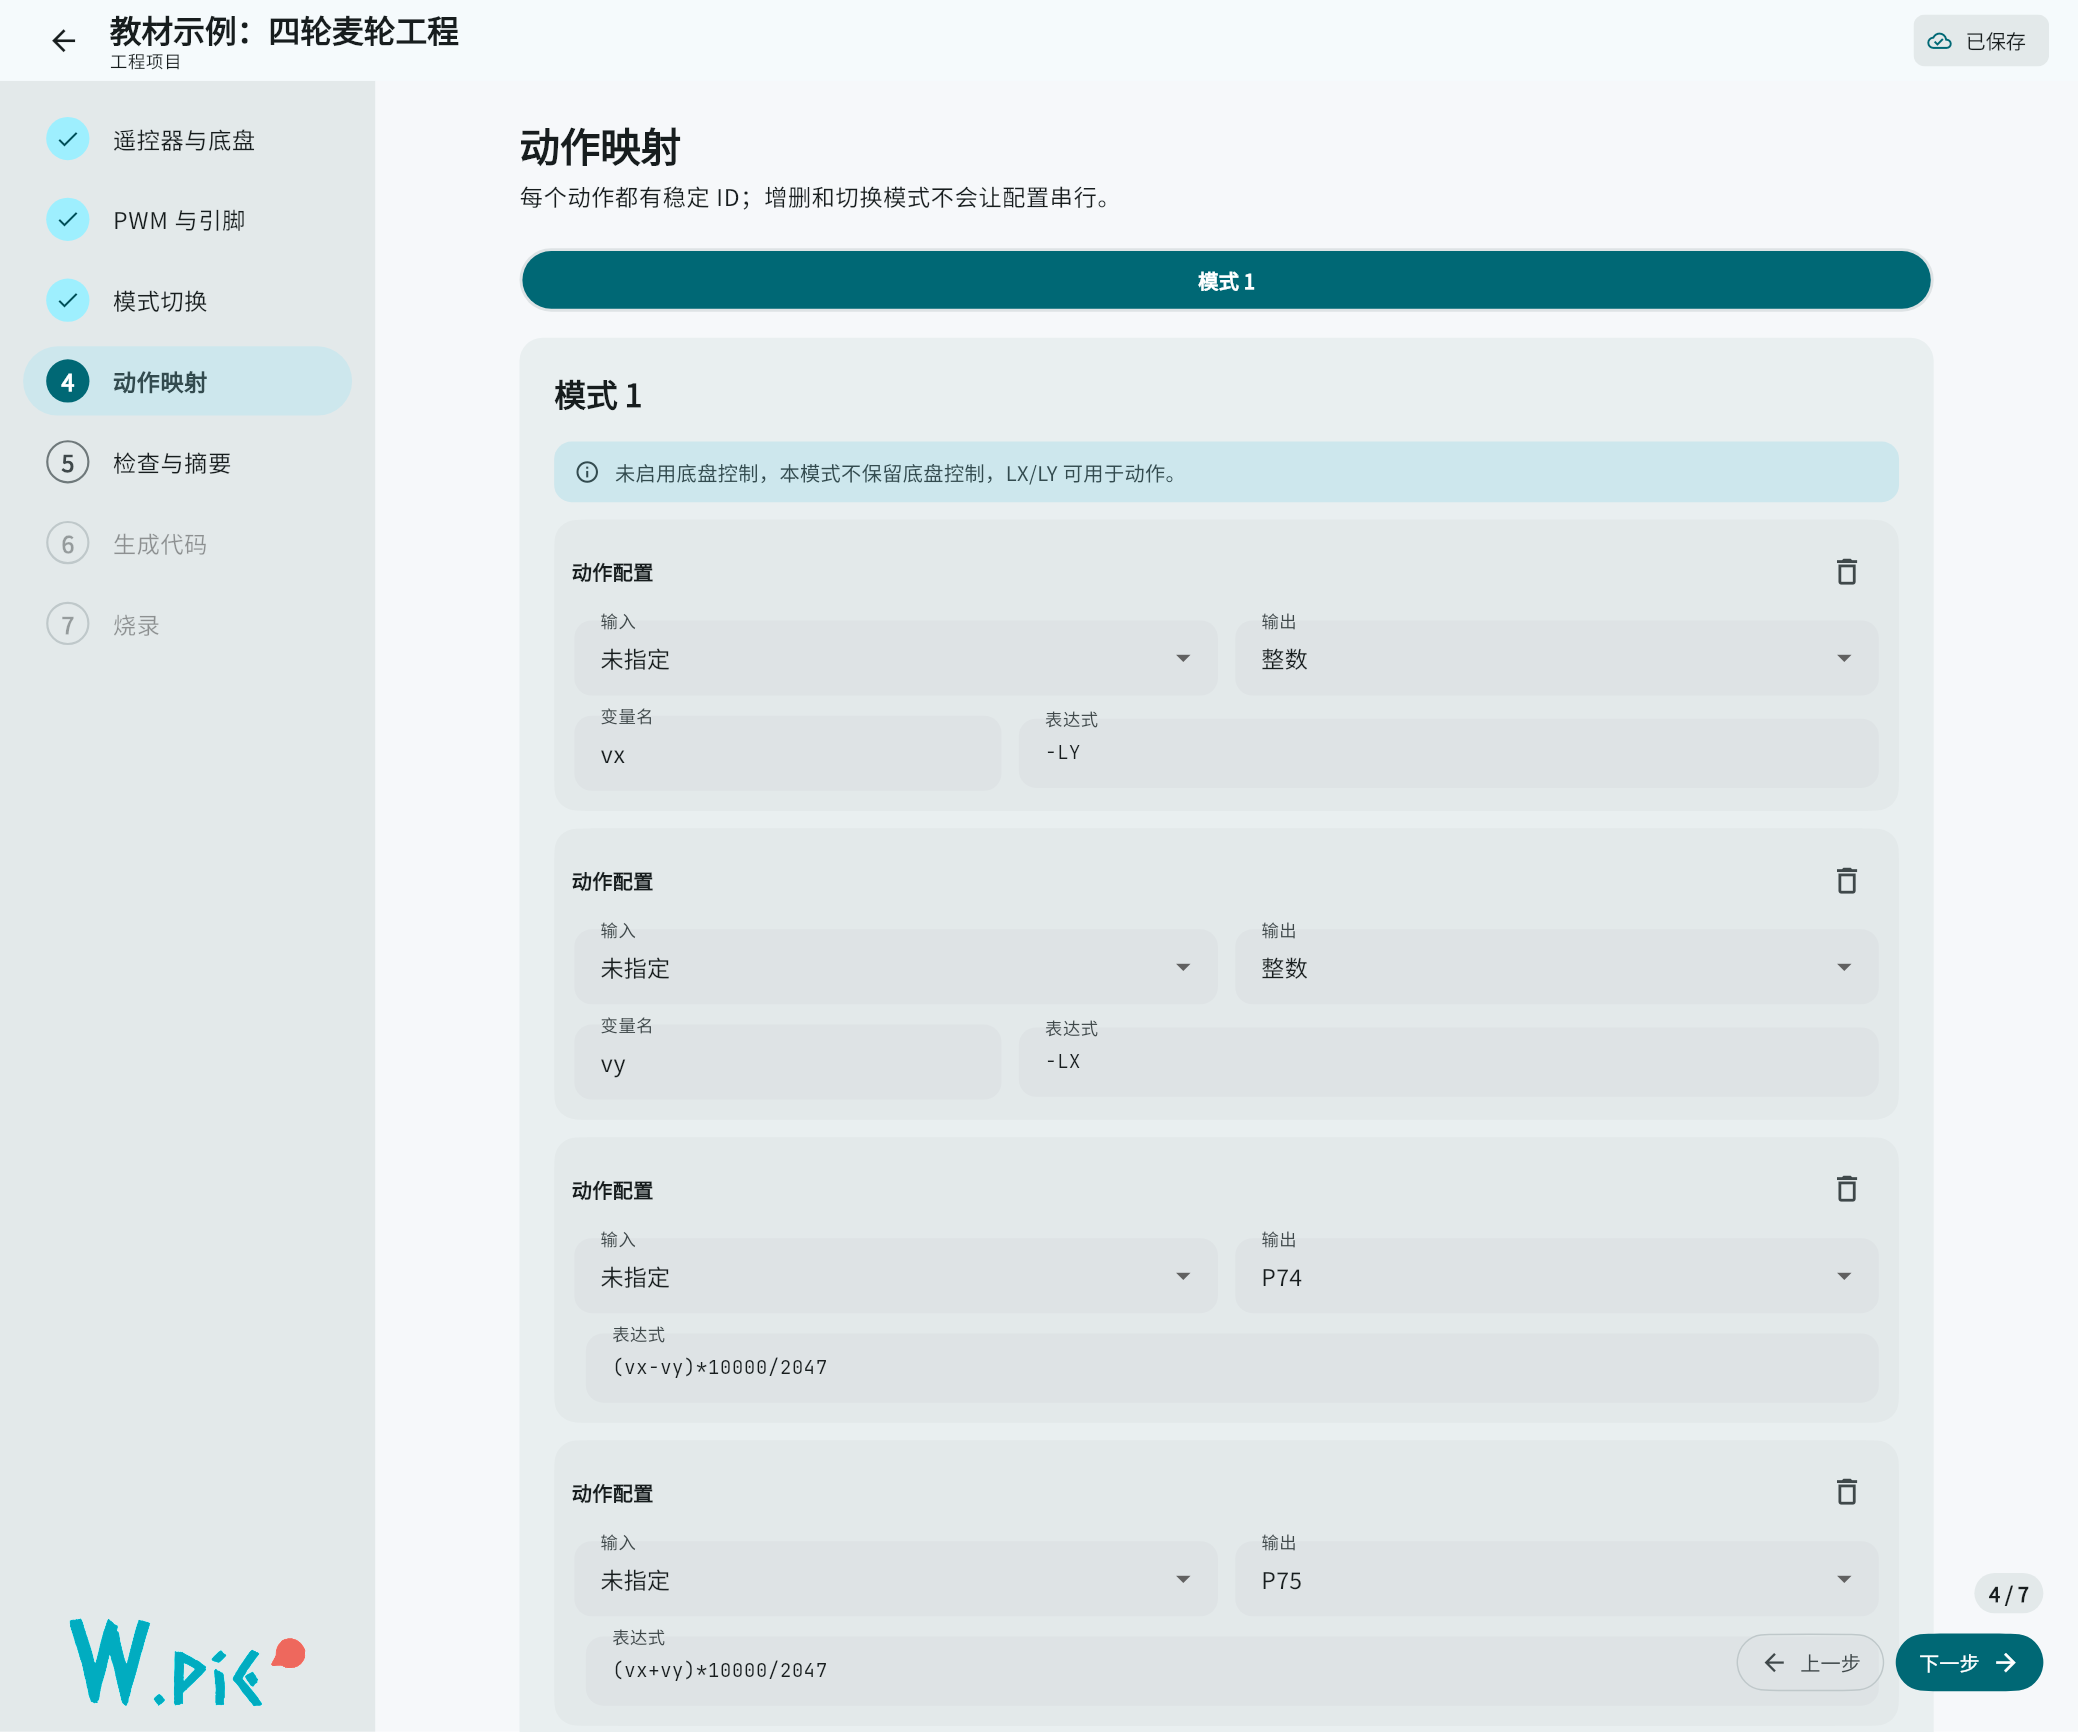
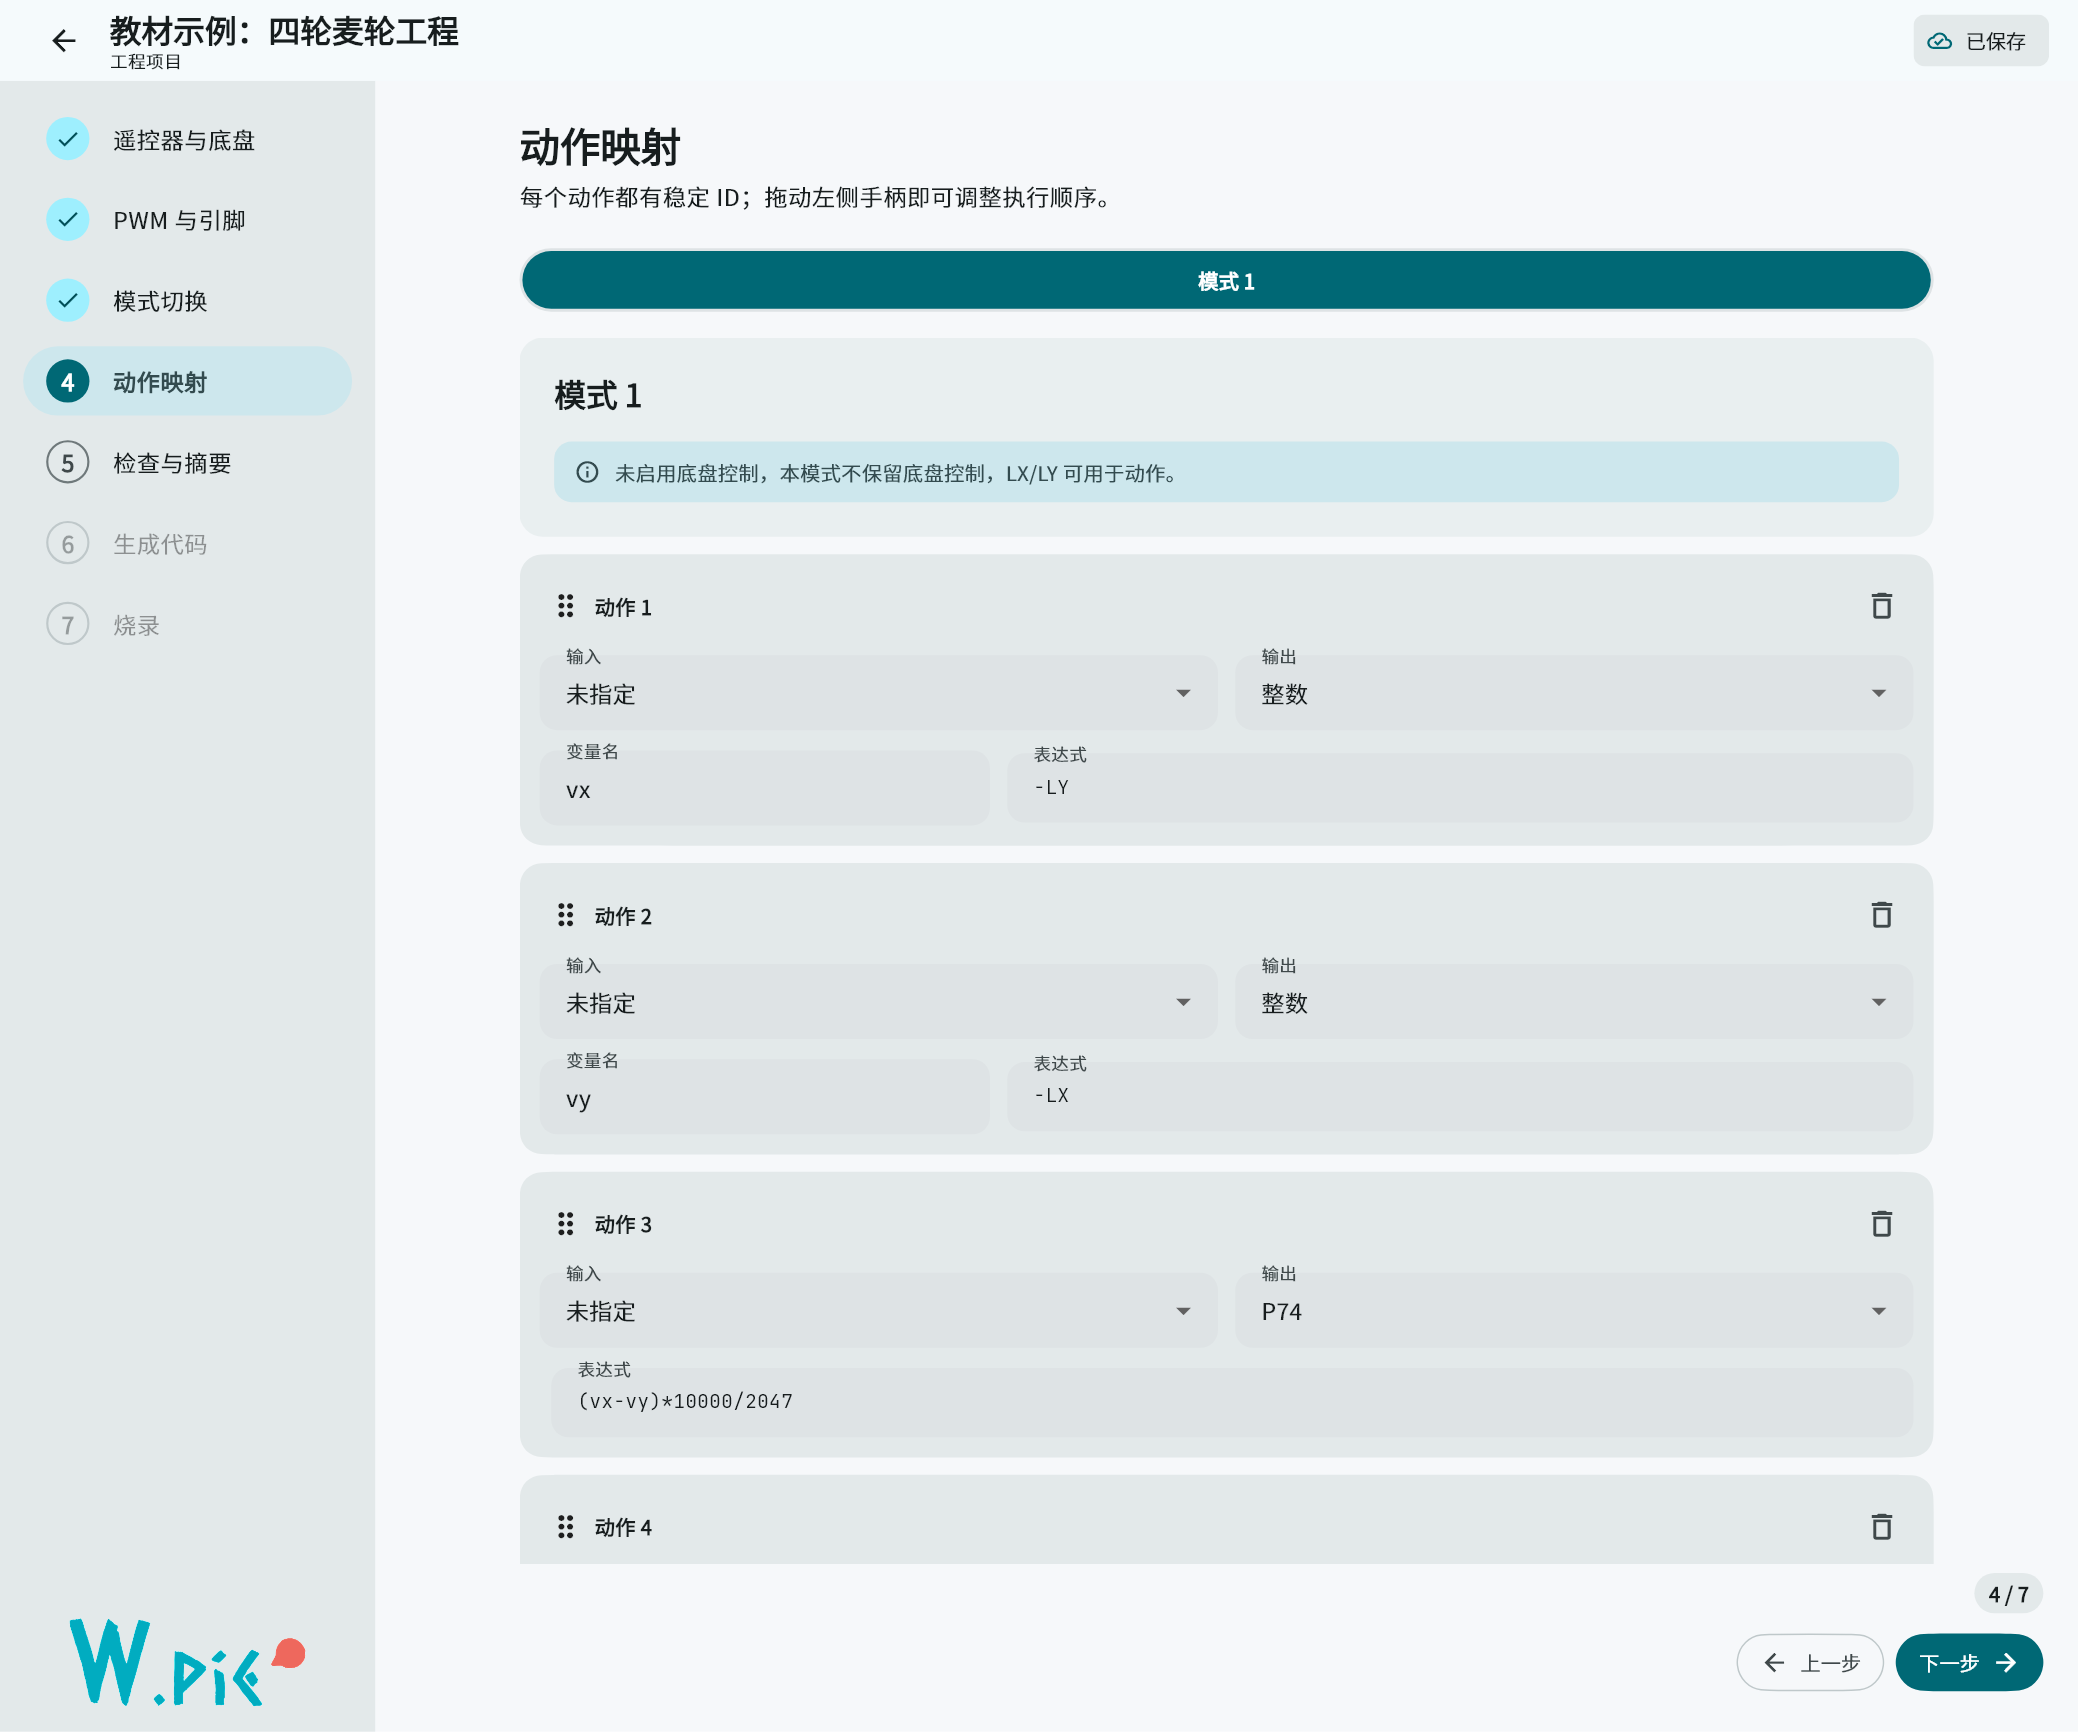
docs(book): 同步工程动作排序说明与截图
更新第 5 章与附录 B 中动作行拖动排序的说明，截图生成器改为滚动动作列表，
并重新生成动作映射页相关配图。

diff --git a/tool/book_screenshots_test.dart b/tool/book_screenshots_test.dart
@@ -270,15 +270,27 @@ Future<void> _saveScreenshot(
 /// 页面的外层滚动容器：`_PageFrame` 的 SingleChildScrollView。
 Finder _pageScrollView() => find.byType(SingleChildScrollView).first;
 
-/// 直接滚到页面底部（动作映射页下半部分用）。
-Future<void> _scrollPageToBottom(WidgetTester tester) async {
-  final scrollable = find
-      .descendant(
-        of: _pageScrollView(),
-        matching: find.byType(Scrollable),
-      )
-      .first;
-  final position = tester.state<ScrollableState>(scrollable).position;
+/// 页面外层滚动区。
+Finder _pageScrollable() => find
+    .descendant(of: _pageScrollView(), matching: find.byType(Scrollable))
+    .first;
+
+/// 动作映射页的动作列表：列表独立滚动，不再走页面外层滚动。
+Finder _actionsScrollable() => find
+    .descendant(
+      of: find.byType(ReorderableListView),
+      matching: find.byType(Scrollable),
+    )
+    .first;
+
+/// 直接滚到指定滚动区底部（动作映射页下半部分用）。
+Future<void> _scrollPageToBottom(
+  WidgetTester tester, {
+  Finder? scrollable,
+}) async {
+  final position = tester
+      .state<ScrollableState>(scrollable ?? _pageScrollable())
+      .position;
   position.jumpTo(position.maxScrollExtent);
   await tester.pumpAndSettle();
 }
@@ -397,10 +409,10 @@ void main() {
       step: 3,
       logicalHeight: 1200,
     );
-    // 先按清单检查表达式行，再滚到页面底部取「下半部分」。
+    // 先按清单检查表达式行，再滚到列表底部取「下半部分」。
     await tester.dragUntilVisible(
       find.byKey(const ValueKey('modes.0.actions.9.expression')),
-      _pageScrollView(),
+      _actionsScrollable(),
       const Offset(0, -250),
     );
     await tester.pumpAndSettle();
@@ -408,7 +420,7 @@ void main() {
       find.byKey(const ValueKey('modes.0.actions.9.expression')),
       findsOneWidget,
     );
-    await _scrollPageToBottom(tester);
+    await _scrollPageToBottom(tester, scrollable: _actionsScrollable());
     await _settle(tester);
     await _saveScreenshot(tester, key, '5-6-arm-servos.png');
   });

diff --git a/book/chapters/appendix-b.tex b/book/chapters/appendix-b.tex
@@ -55,8 +55,8 @@ PIE-Block 打开另存，或按第~\ref{ch:projects}~章的字段说明手工迁
 注释回到对应行修改。
 
 \textbf{动作行能不能拖动排序？}\quad
-目前不能。列表顺序就是执行顺序，变量行必须排在引用它的行之前；调整
-顺序需要删除后按正确顺序重新添加。
+可以。拖动动作行左侧的手柄调整顺序；列表顺序就是执行顺序，变量行仍须排在
+引用它的行之前。
 
 \textbf{模式切换后轮子停了？}\quad
 新模式没有映射这四路输出。工程项目的每个模式都要把需要的输出写全；
